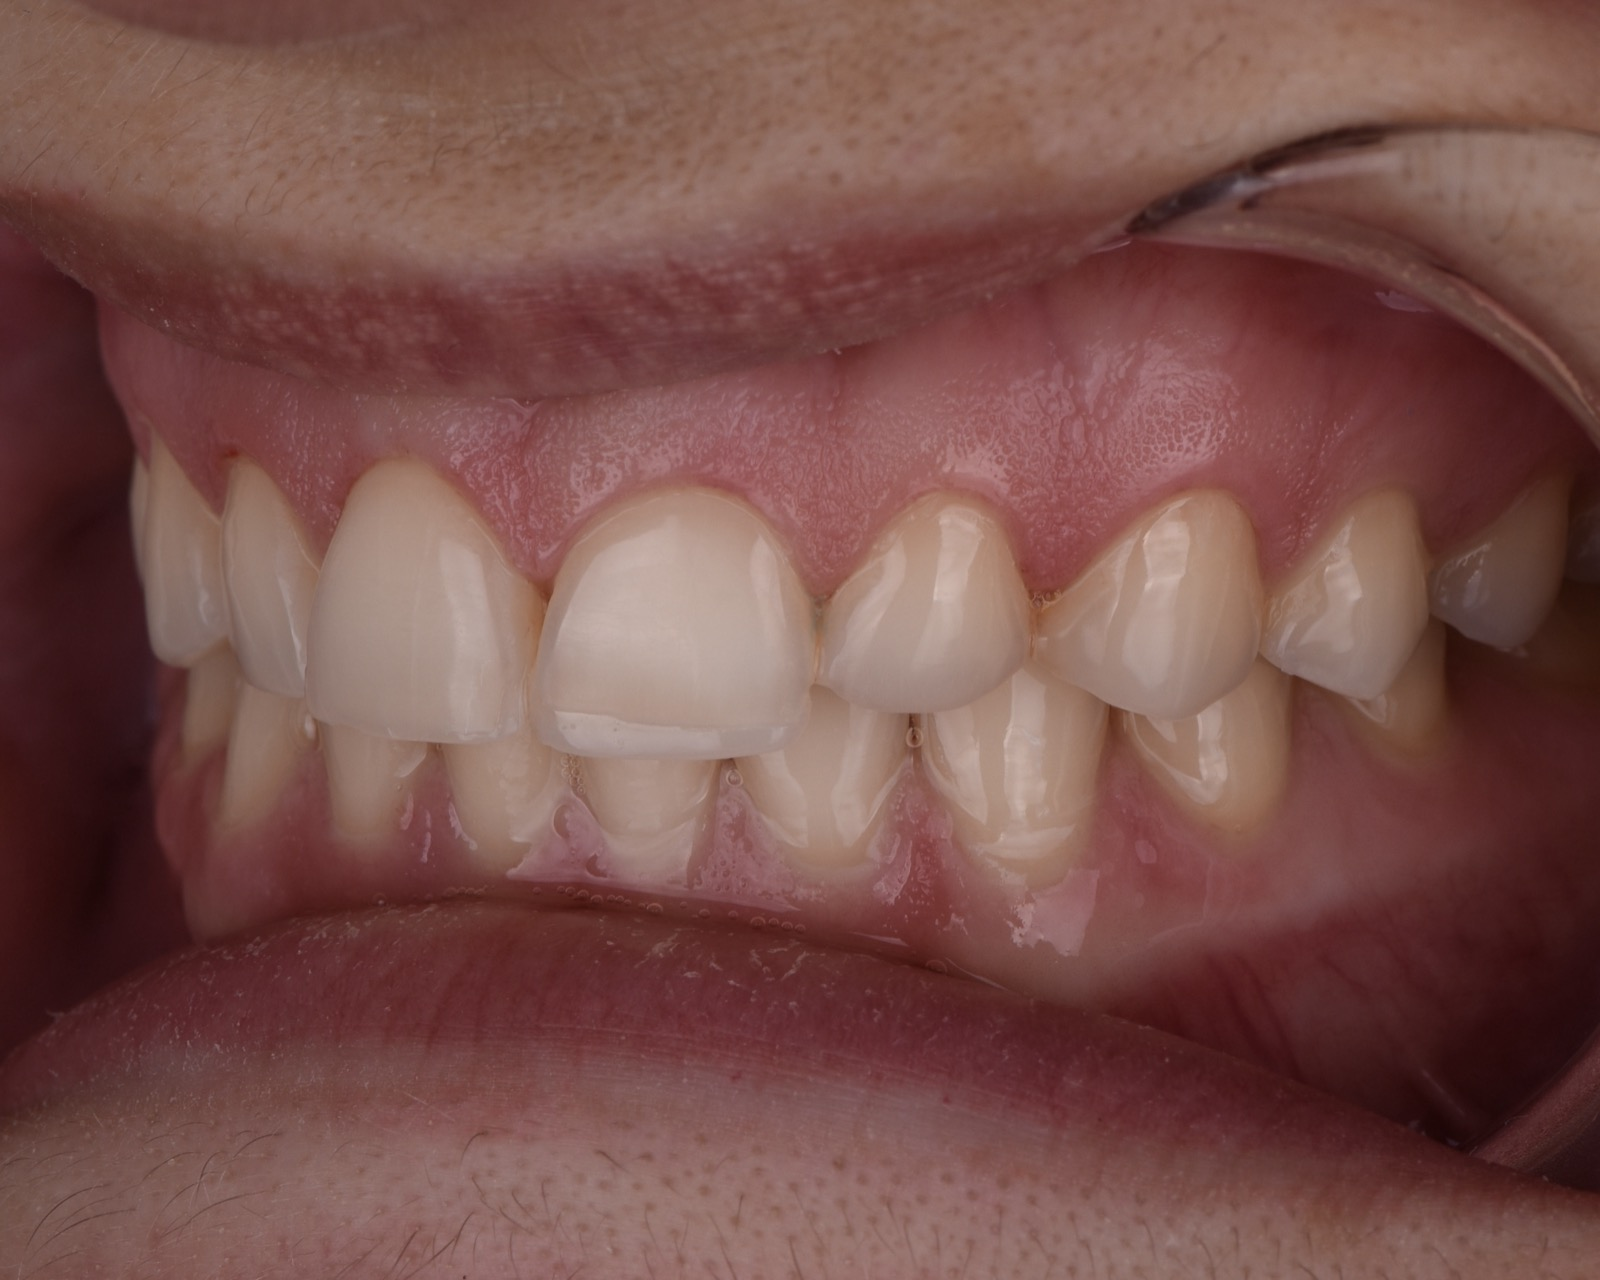
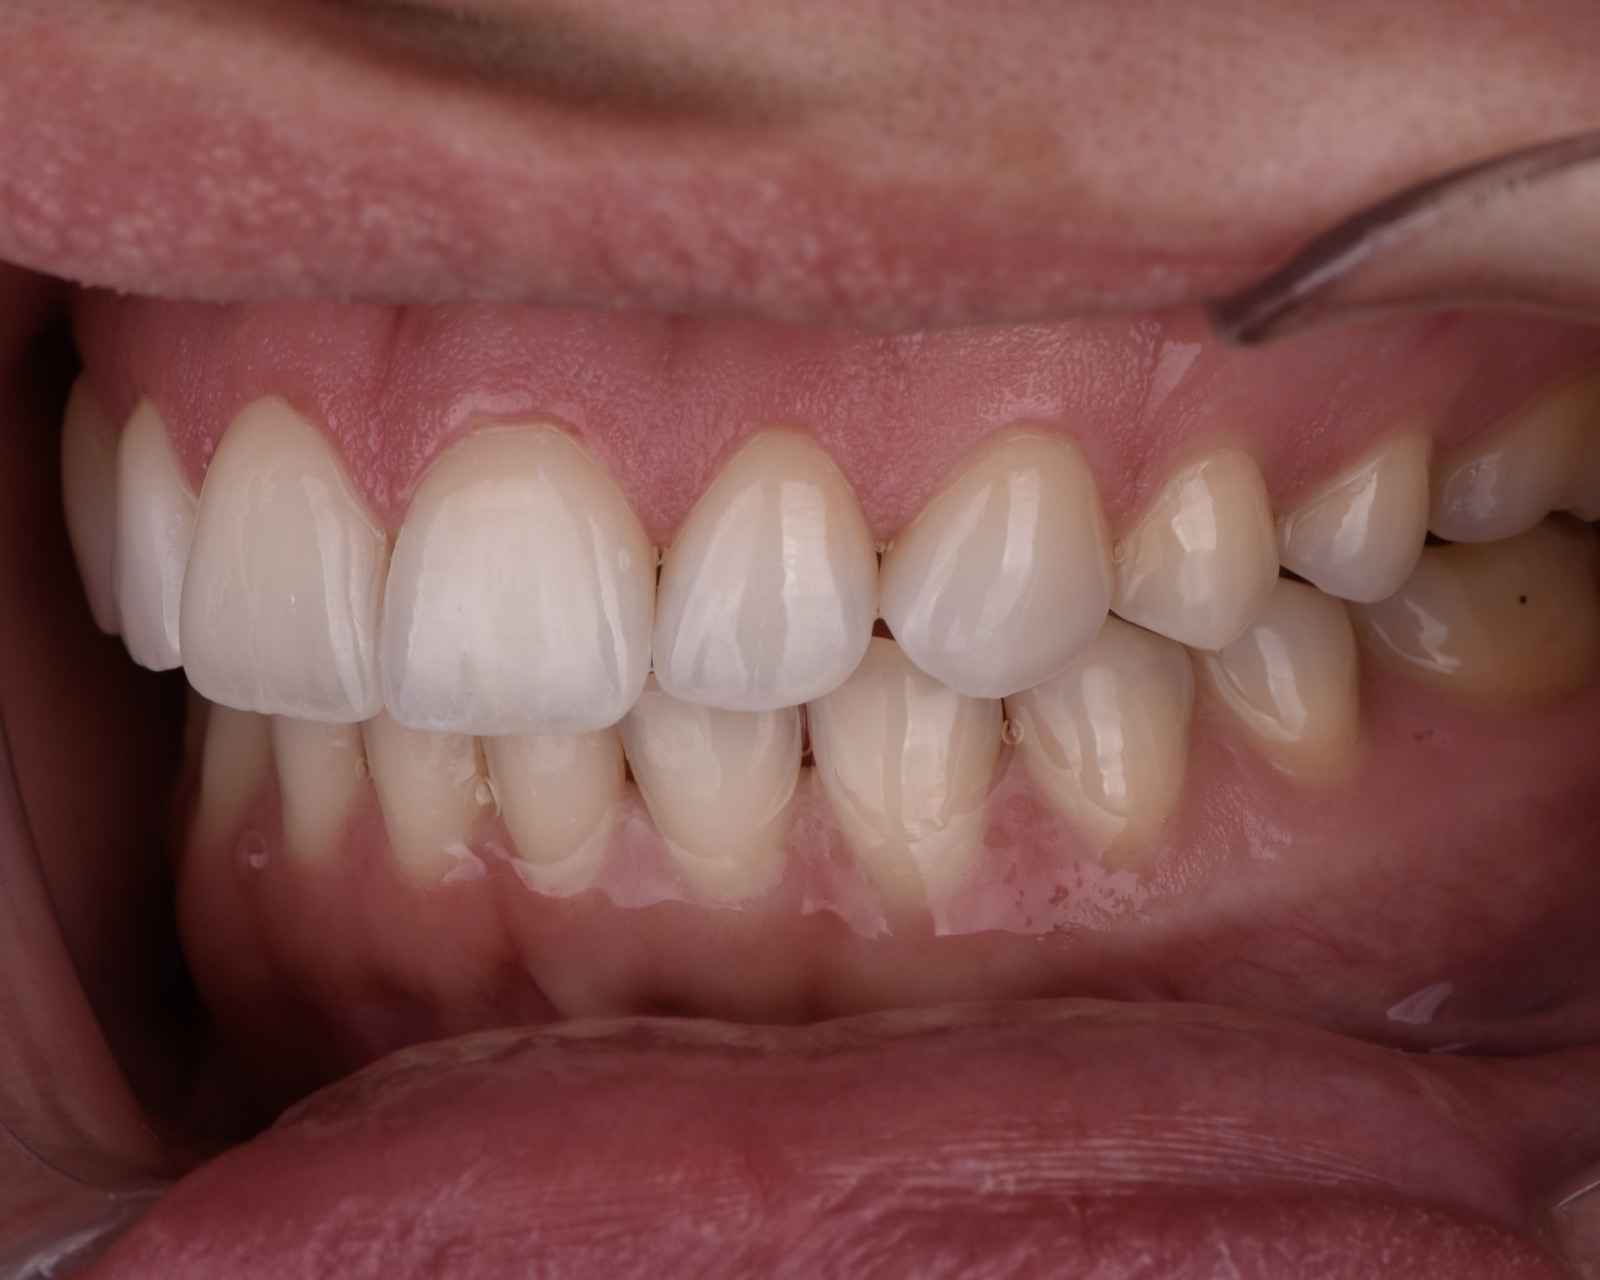
Fix Inna's gallery: 3 of her 6 photos were before, not after
Source screenshots in her folder (labeled "Инна до 1/2/3" and
"Инна после 1/2/3") show IMG_4506-4508 are the before shots and
IMG_4509-4511 are the after — all 6 had been classified as "after"
on the site, so the catalog thumbnail, hero photo, and gallery cover
were showing a crooked/yellowed before photo as her result, and the
before/after compare badge never appeared since nothing was tagged
"до".

Renamed the image files to match (inna-after/2/3 -> inna-before/2/3,
inna-after4/5/6 -> inna-after/2/3) and updated patients-{ru,ua,en}.js
and her own patient-14.html gallery script (photos/labels/alts) in
all 3 languages to the correct 3-before + 3-after split, following
the same labeling convention already used for Mikhail's case.

diff --git a/raboty/patient-14.html b/raboty/patient-14.html
@@ -340,9 +340,9 @@
     </div>
 <script>
 (function(){
-  const photos = ['/img/patients/inna-after.webp','/img/patients/inna-after2.webp','/img/patients/inna-after3.webp','/img/patients/inna-after4.webp','/img/patients/inna-after5.webp','/img/patients/inna-after6.webp'];
-  const labels = ['После','После, ракурс 2','После, ракурс 3','После, ракурс 4','После, ракурс 5','После, ракурс 6'];
-  const alts = ['Инна — результат: керамические виниры','Инна — результат, ракурс 2','Инна — результат, ракурс 3','Инна — результат, ракурс 4','Инна — результат, ракурс 5','Инна — результат, ракурс 6'];
+  const photos = ['/img/patients/inna-before.webp','/img/patients/inna-before2.webp','/img/patients/inna-before3.webp','/img/patients/inna-after.webp','/img/patients/inna-after2.webp','/img/patients/inna-after3.webp'];
+  const labels = ['До','До','До','После','После, ракурс 2','После, ракурс 3'];
+  const alts = ['Инна — фото до','Инна — фото до','Инна — фото до','Инна — результат: натуральные виниры','Инна — результат, ракурс 2','Инна — результат, ракурс 3'];
 
   // Slide list: "до" photos — both the close-up ones and the one portrait
   // shot before treatment — never get their own slide. They're pulled out

diff --git a/ua/raboty/patient-14.html b/ua/raboty/patient-14.html
@@ -339,9 +339,9 @@
     </div>
 <script>
 (function(){
-  const photos = ['/img/patients/inna-after.webp','/img/patients/inna-after2.webp','/img/patients/inna-after3.webp','/img/patients/inna-after4.webp','/img/patients/inna-after5.webp','/img/patients/inna-after6.webp'];
-  const labels = ['Після','Після, ракурс 2','Після, ракурс 3','Після, ракурс 4','Після, ракурс 5','Після, ракурс 6'];
-  const alts = ['Інна — результат: керамічні вініри','Інна — результат, ракурс 2','Інна — результат, ракурс 3','Інна — результат, ракурс 4','Інна — результат, ракурс 5','Інна — результат, ракурс 6'];
+  const photos = ['/img/patients/inna-before.webp','/img/patients/inna-before2.webp','/img/patients/inna-before3.webp','/img/patients/inna-after.webp','/img/patients/inna-after2.webp','/img/patients/inna-after3.webp'];
+  const labels = ['До','До','До','Після','Після, ракурс 2','Після, ракурс 3'];
+  const alts = ['Інна — фото до','Інна — фото до','Інна — фото до','Інна — результат: натуральні вініри','Інна — результат, ракурс 2','Інна — результат, ракурс 3'];
 
   // Slide list: "до" photos — both the close-up ones and the one portrait
   // shot before treatment — never get their own slide. They're pulled out

diff --git a/en/raboty/patient-14.html b/en/raboty/patient-14.html
@@ -337,9 +337,9 @@
     </div>
 <script>
 (function(){
-  const photos = ['/img/patients/inna-after.webp','/img/patients/inna-after2.webp','/img/patients/inna-after3.webp','/img/patients/inna-after4.webp','/img/patients/inna-after5.webp','/img/patients/inna-after6.webp'];
-  const labels = ['After','After, angle 2','After, angle 3','After, angle 4','After, angle 5','After, angle 6'];
-  const alts = ['Inna — result: ceramic veneers','Inna — result, angle 2','Inna — result, angle 3','Inna — result, angle 4','Inna — result, angle 5','Inna — result, angle 6'];
+  const photos = ['/img/patients/inna-before.webp','/img/patients/inna-before2.webp','/img/patients/inna-before3.webp','/img/patients/inna-after.webp','/img/patients/inna-after2.webp','/img/patients/inna-after3.webp'];
+  const labels = ['Before','Before','Before','After','After, angle 2','After, angle 3'];
+  const alts = ['Inna — before photo','Inna — before photo','Inna — before photo','Inna — result: natural-look veneers','Inna — result, angle 2','Inna — result, angle 3'];
 
   // Slide list: "до" photos — both the close-up ones and the one portrait
   // shot before treatment — never get their own slide. They're pulled out

diff --git a/assets/patients-ru.js b/assets/patients-ru.js
@@ -118,8 +118,8 @@ window.PATIENTS = {
     desc: 'Протезирование верхних 6 зубов с помощью натуральных виниров.',
     url: '/raboty/patient-14.html',
     cover: 'inna-after',
-    photos: ['/img/patients/inna-after.webp','/img/patients/inna-after2.webp','/img/patients/inna-after3.webp','/img/patients/inna-after4.webp','/img/patients/inna-after5.webp','/img/patients/inna-after6.webp'],
-    labels: ['После','После, ракурс 2','После, ракурс 3','После, ракурс 4','После, ракурс 5','После, ракурс 6']
+    photos: ['/img/patients/inna-before.webp','/img/patients/inna-before2.webp','/img/patients/inna-before3.webp','/img/patients/inna-after.webp','/img/patients/inna-after2.webp','/img/patients/inna-after3.webp'],
+    labels: ['До','До','До','После','После, ракурс 2','После, ракурс 3']
   },
   pavel: {
     name: 'Павел', tag: 'Тотальное протезирование',

diff --git a/assets/patients-ua.js b/assets/patients-ua.js
@@ -111,8 +111,8 @@ window.PATIENTS = {
     desc: 'Протезування верхніх 6 зубів за допомогою натуральних вінірів.',
     url: '/ua/raboty/patient-14.html',
     cover: 'inna-after',
-    photos: ['/img/patients/inna-after.webp','/img/patients/inna-after2.webp','/img/patients/inna-after3.webp','/img/patients/inna-after4.webp','/img/patients/inna-after5.webp','/img/patients/inna-after6.webp'],
-    labels: ['Після','Після, ракурс 2','Після, ракурс 3','Після, ракурс 4','Після, ракурс 5','Після, ракурс 6']
+    photos: ['/img/patients/inna-before.webp','/img/patients/inna-before2.webp','/img/patients/inna-before3.webp','/img/patients/inna-after.webp','/img/patients/inna-after2.webp','/img/patients/inna-after3.webp'],
+    labels: ['До','До','До','Після','Після, ракурс 2','Після, ракурс 3']
   },
   pavel: {
     name: 'Павло', tag: 'Тотальне протезування',

diff --git a/assets/patients-en.js b/assets/patients-en.js
@@ -111,8 +111,8 @@ window.PATIENTS = {
     desc: 'Restoration of 6 upper teeth with natural-look veneers.',
     url: '/en/raboty/patient-14.html',
     cover: 'inna-after',
-    photos: ['/img/patients/inna-after.webp','/img/patients/inna-after2.webp','/img/patients/inna-after3.webp','/img/patients/inna-after4.webp','/img/patients/inna-after5.webp','/img/patients/inna-after6.webp'],
-    labels: ['After','After, angle 2','After, angle 3','After, angle 4','After, angle 5','After, angle 6']
+    photos: ['/img/patients/inna-before.webp','/img/patients/inna-before2.webp','/img/patients/inna-before3.webp','/img/patients/inna-after.webp','/img/patients/inna-after2.webp','/img/patients/inna-after3.webp'],
+    labels: ['Before','Before','Before','After','After, angle 2','After, angle 3']
   },
   pavel: {
     name: 'Pavel', tag: 'Full Mouth Restoration',
